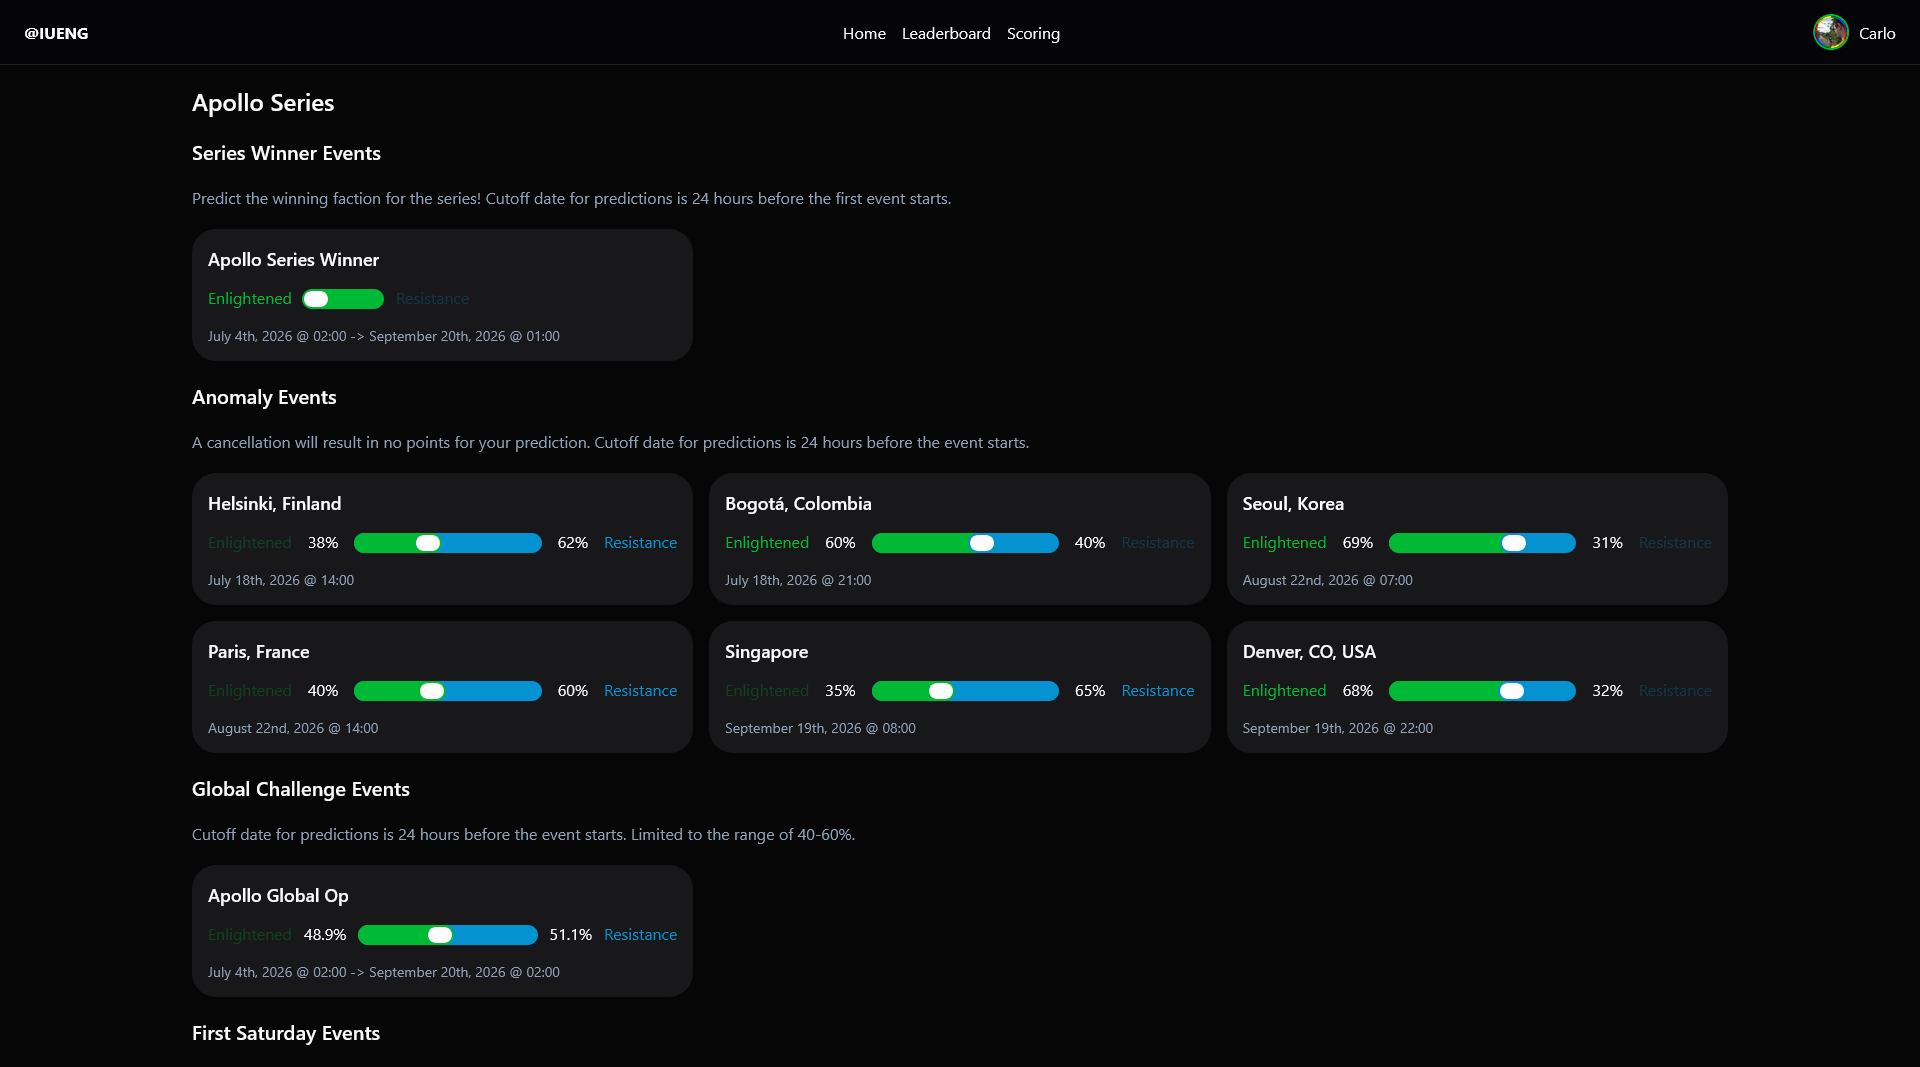
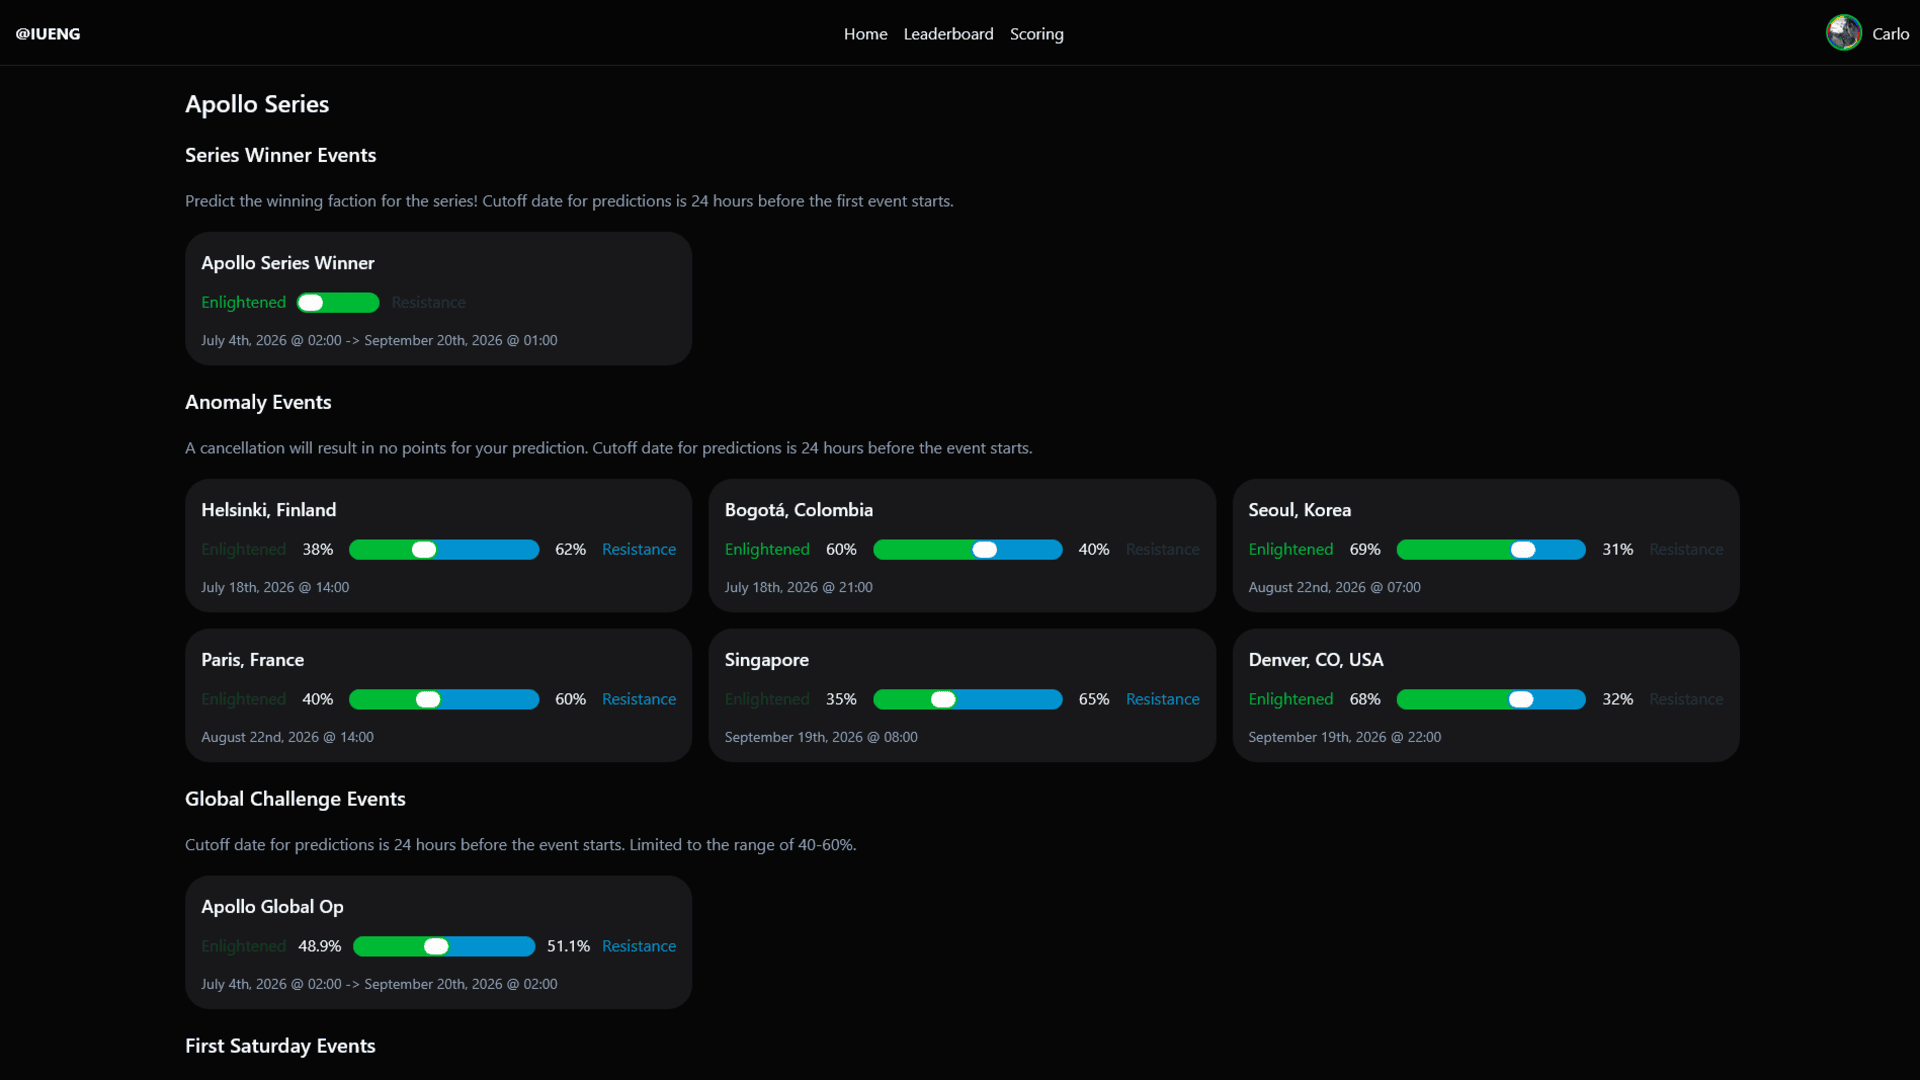
feat: add plane tracker project and picture

diff --git a/src/pages/home.tsx b/src/pages/home.tsx
@@ -15,7 +15,7 @@ export const Home = () => {
           </div>
           <div className='col-8 col-md-8 col-lg-9 col-xl-10 justify-content-center d-flex flex-column'>
             <h1 className="display-1 gradient-text">Hello, world!</h1>
-            <h2>My name is <strong style={{ color: '#86A8E7' }}>Carlo</strong></h2>
+            <h2>My name is <strong className="gradient-text">Carlo</strong></h2>
             <p>
               I'm a fullstack developer living and working in Italy! 🇮🇹
             </p>
@@ -66,7 +66,7 @@ export const Home = () => {
           </div>
         </div>
         <div className="container">
-          <p className='text-center text-muted'>Built with 💚 using <a href="https://vitejs.dev/" className="text-muted">Vite</a>, <a className="text-muted" href="https://reactjs.org/">React</a> and <a className="text-muted" href="https://getbootstrap.com/">Bootstrap</a> - © 2022-2024</p>
+          <p className='text-center text-muted'>Built with 💚 using <a href="https://vitejs.dev/" className="text-muted">Vite</a>, <a className="text-muted" href="https://reactjs.org/">React</a> and <a className="text-muted" href="https://getbootstrap.com/">Bootstrap</a> - © 2022-{new Date().getFullYear() }</p>
         </div>
       </div>
     </>